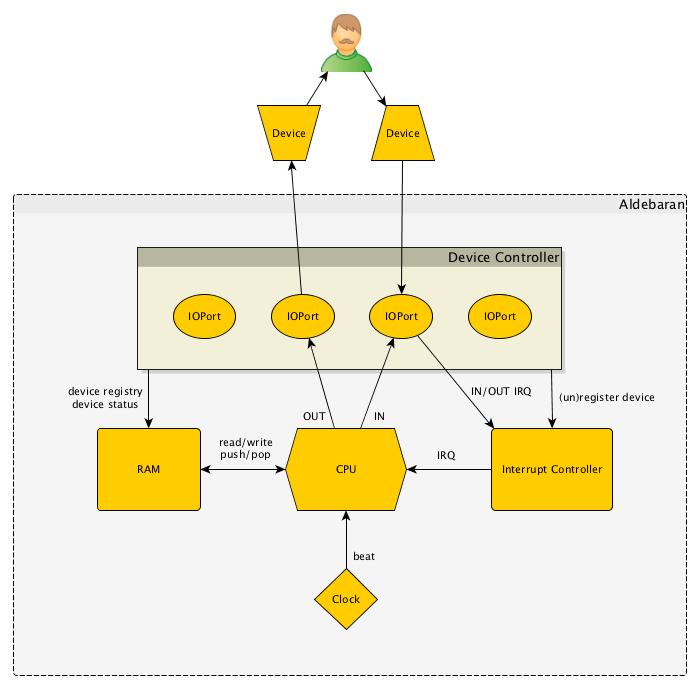
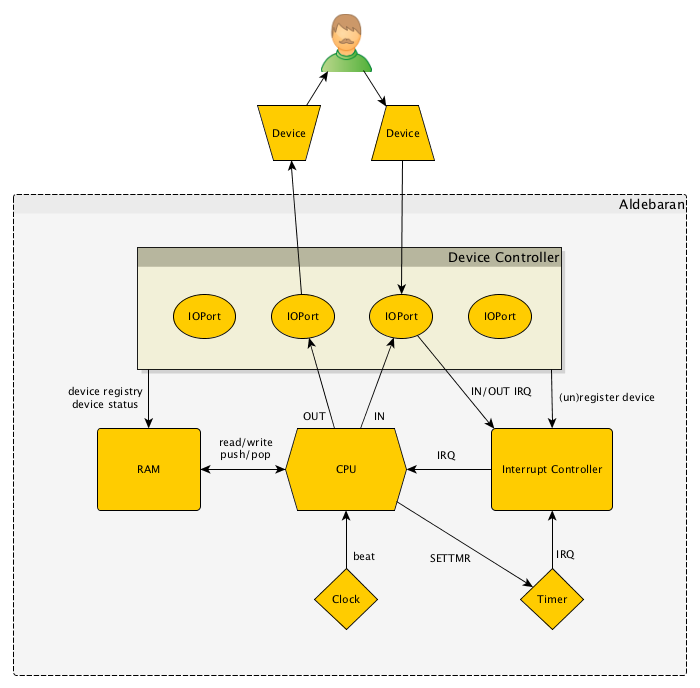
Timer unit added

Changed region(s): [[0.72, 0.7936, 0.84, 0.9157], [0.6, 0.7936, 0.69, 0.8241], [0.78, 0.7326, 0.81, 0.7631]]

diff --git a/aldebaran.py b/aldebaran.py
@@ -11,6 +11,7 @@ import device_controller
 import errors
 import instructions
 import interrupt_controller
+import timer
 
 
 class Aldebaran(aux.Hardware):
@@ -23,10 +24,12 @@ class Aldebaran(aux.Hardware):
         self.bios = components['bios']
         self.interrupt_controller = components['interrupt_controller']
         self.device_controller = components['device_controller']
+        self.timer = components['timer']
         # architecture:
-        self.cpu.register_architecture(self.ram, self.interrupt_controller, self.device_controller)
+        self.cpu.register_architecture(self.ram, self.interrupt_controller, self.device_controller, self.timer)
         self.clock.register_architecture(self.cpu)
-        self.device_controller.register_architecture(self.cpu.system_interrupts, self.interrupt_controller, self.ram)
+        self.device_controller.register_architecture(self.interrupt_controller, self.ram)
+        self.timer.register_architecture(self.interrupt_controller)
 
     def load_bios(self):
         self.log.log('aldebaran', 'Loading BIOS...')
@@ -45,9 +48,13 @@ class Aldebaran(aux.Hardware):
         retval = self.device_controller.start()
         if retval != 0:
             return retval
+        retval = self.timer.start()
+        if retval != 0:
+            return retval
         start_time = time.time()
         retval = self.clock.run()
         stop_time = time.time()
+        self.timer.stop()
         self.device_controller.stop()
         self.log.log('aldebaran', 'Stopped after %s steps in %s sec (%s Hz).' % (
             self.clock.step_count,
@@ -106,6 +113,7 @@ class CPU(aux.Hardware):
         self.user_log = user_log
         self.ram = None
         self.interrupt_controller = None
+        self.timer = None
         self.registers = {
             'IP': self.system_addresses['entry_point'],
             'SP': self.system_addresses['SP'],
@@ -124,10 +132,11 @@ class CPU(aux.Hardware):
         self.halt = False
         self.shutdown = False
 
-    def register_architecture(self, ram, interrupt_controller, device_controller):
+    def register_architecture(self, ram, interrupt_controller, device_controller, timer):
         self.ram = ram
         self.interrupt_controller = interrupt_controller
         self.device_controller = device_controller
+        self.timer = timer
 
     def step(self):
         if not self.ram:
@@ -320,6 +329,7 @@ def main(args):
         'ram': None,
         'interrupt_controller': None,
         'device_controller': None,
+        'timer': None,
     }
     normal_loggers = {
         'aldebaran': aux.Log(),
@@ -329,6 +339,7 @@ def main(args):
         'ram': None,
         'interrupt_controller': aux.Log(),
         'device_controller': aux.Log(),
+        'timer': None,
     }
     full_loggers = {
         'aldebaran': aux.Log(),
@@ -338,6 +349,7 @@ def main(args):
         'ram': aux.Log(),
         'interrupt_controller': aux.Log(),
         'device_controller': aux.Log(),
+        'timer': aux.Log(),
     }
     loggers = normal_loggers  # choose verbosity
     # bios
@@ -367,11 +379,11 @@ def main(args):
         'interrupt_controller': interrupt_controller.InterruptController(loggers['interrupt_controller']),
         'device_controller': device_controller.DeviceController(
             config.aldebaran_host, config.aldebaran_base_port + config.device_controller_port,
-            config.system_addresses['device_status_table'],
-            config.system_addresses['device_registry_address'],
+            config.system_addresses, config.system_interrupts,
             [device_controller.IOPort(ioport_number, loggers['device_controller']) for ioport_number in xrange(config.number_of_ioports)],
             loggers['device_controller'],
         ),
+        'timer': timer.Timer(config.timer_freq, loggers['timer']),
     }, loggers['aldebaran'])
     retval = aldebaran.run()
     print ''

diff --git a/timer.py b/timer.py
@@ -1,0 +1,74 @@
+import datetime
+import threading
+import time
+
+import aux
+
+
+TIMER_MODE_OFF = 0
+TIMER_MODE_ONESHOT = 1
+TIMER_MODE_PERIODIC = 2
+
+
+class Timer(aux.Hardware):
+
+    def __init__(self, freq, log=None):
+        aux.Hardware.__init__(self, log)
+        if freq:
+            self.speed = 1.0 / freq
+        else:
+            self.speed = 0
+        self.start_time = None
+        self.step_count = 0
+        self.stop_event = threading.Event()
+        self.subtimers = [{
+            'mode': TIMER_MODE_OFF,
+            'speed': 1,
+            'phase': 0,
+            'interrupt_number': 0,
+        } for _ in xrange(8)]
+        self.interrupt_controller = None
+
+    def register_architecture(self, interrupt_controller):
+        self.interrupt_controller = interrupt_controller
+
+    def timer_thread_run(self):
+        self.start_time = time.time()
+        while True:
+            self.log.log('timer', 'Beat %s' % datetime.datetime.fromtimestamp(self.start_time).strftime('%H:%M:%S.%f')[:11])
+            for subtimer in self.subtimers:
+                if subtimer['mode'] == TIMER_MODE_OFF:
+                    continue
+                if subtimer['speed'] > 1:
+                    if self.step_count % subtimer['speed'] != subtimer['phase']:
+                        continue
+                self.interrupt_controller.send(subtimer['interrupt_number'])
+                if subtimer['mode'] == TIMER_MODE_ONESHOT:
+                    subtimer['mode'] = TIMER_MODE_OFF
+            self.step_count += 1
+            if self.stop_event.wait(0):
+                break
+            self.sleep()
+
+    def sleep(self):
+        sleep_time = self.start_time + self.speed - time.time()
+        if sleep_time > 0:
+            time.sleep(sleep_time)
+        self.start_time = time.time()
+
+    def start(self):
+        self.log.log('timer', 'Starting...')
+        self.timer_thread = threading.Thread(target=self.timer_thread_run)
+        self.timer_thread.start()
+        self.log.log('timer', 'Started.')
+        return 0
+
+    def stop(self):
+        self.log.log('timer', 'Stopping...')
+        self.stop_event.set()
+        self.timer_thread.join()
+        self.log.log('timer', 'Stopped.')
+
+    def set_subtimer(self, subtimer_number, subtimer_config):
+        self.subtimers[subtimer_number] = subtimer_config
+        self.log.log('timer', 'Subtimer %s set.' % aux.byte_to_str(subtimer_number))

diff --git a/device_controller.py b/device_controller.py
@@ -120,20 +120,19 @@ class DeviceController(aux.Hardware):
             self.log = log
             self.daemon_threads = True
 
-    def __init__(self, host, port, device_status_table, device_registry_address, ioports, log=None):
+    def __init__(self, host, port, system_addresses, system_interrupts, ioports, log=None):
         aux.Hardware.__init__(self, log)
         self.address = (host, port)
-        self.device_status_table = device_status_table
-        self.device_registry_address = device_registry_address
+        self.device_status_table = system_addresses['device_status_table']
+        self.device_registry_address = system_addresses['device_registry_address']
         self.ioports = ioports
-        self.system_interrupts = None
-        self.interrupt_controller = None
+        self.system_interrupts = system_interrupts
         self.output_queue = Queue.Queue()
+        self.interrupt_controller = None
         self.ram = None
         self.architecture_registered = False
 
-    def register_architecture(self, system_interrupts, interrupt_controller, ram):
-        self.system_interrupts = system_interrupts
+    def register_architecture(self, interrupt_controller, ram):
         self.interrupt_controller = interrupt_controller
         self.ram = ram
         for ioport in self.ioports:

diff --git a/config.py b/config.py
@@ -17,10 +17,10 @@ number_of_interrupts = 256
 IVT_size = number_of_interrupts * 2
 device_registry_size = number_of_devices * 4
 system_interrupts = {
-    'device_registered': 30,
-    'device_unregistered': 31,
-    'ioport_in': [32 + ioport_number for ioport_number in xrange(number_of_ioports)],
-    'ioport_out': [48 + ioport_number for ioport_number in xrange(number_of_ioports)],
+    'device_registered': 0x1E,
+    'device_unregistered': 0x1F,
+    'ioport_in': [0x20 + ioport_number for ioport_number in xrange(number_of_ioports)],
+    'ioport_out': [0x30 + ioport_number for ioport_number in xrange(number_of_ioports)],
 }
 system_addresses = {
     'entry_point': 0x0000,
@@ -31,3 +31,4 @@ system_addresses = {
     'IVT': ram_size - IVT_size,
 }
 clock_freq = 200  # Hz
+timer_freq = 10  # Hz

diff --git a/instructions.py b/instructions.py
@@ -577,3 +577,19 @@ class OUT(Instruction):
         ]))
         self.cpu.log.log('cpu', 'Output data to IOPort %s: %s (%s bytes)' % (ioport_number, aux.binary_to_str(output_data), cx))
         self.cpu.set_register('CX', 0)  # is it required?
+
+
+class SETTMR(Instruction):
+    '''Set subtimer of Timer'''
+
+    operand_count = 5
+
+    def do(self):
+        subtimer_number = self.get_operand(0)
+        self.cpu.timer.set_subtimer(subtimer_number, {
+            'mode': self.get_operand(1),
+            'speed': self.get_operand(2),
+            'phase': self.get_operand(3),
+            'interrupt_number': self.get_operand(4),
+        })
+        self.cpu.log.log('cpu', 'Subtimer %s set.' % aux.byte_to_str(subtimer_number))

diff --git a/README.md b/README.md
@@ -15,7 +15,7 @@ The project is under heavy construction...
 
 ### Clock
 
-The clock sends the CPU a beat every `1/clock frequency` seconds. If it takes more time for the CPU to execute the instruction at hand, the clock will wait and send the next beat as soon as possible. So the effective clock frequency (printed after ALD shuts down) is typically smaller then the theoretical. If `clock frequency` is zero ("TURBO" mode), the clock sends beats as fast as possible.
+The clock sends the CPU a beat every `1/clock_freq` seconds. If it takes more time for the CPU to execute the instruction at hand, the clock will wait and send the next beat as soon as possible. So the effective clock frequency (printed after ALD shuts down) is typically smaller then the theoretical. If `clock_freq` is zero ("TURBO" mode), the clock sends beats as fast as possible.
 
 
 ### RAM
@@ -27,7 +27,7 @@ A simple RAM module with 65536 bytes of storage. Capable of reading and writing 
 
 For every clock beat the CPU:
 
-- checks if there's a hardware interrupt (coming from the Interrupt Controller)
+- checks if there's a hardware interrupt coming from the Interrupt Controller (only if the Interrupt Flag is set)
 - if yes, it calls the specified interrupt handler routine (based on the Interrupt Vector Table)
 - if no, it executes the instruction at the Instruction Pointer (`IP`) and sets the `IP` to the next instruction
 
@@ -94,6 +94,18 @@ Another part of the RAM is the Device Status Table. For each IOPort it has 1 byt
 5. CPU calls the specified interrupt handler routine
 6. Device Controller responds to the device
 
+
+### Timer
+
+Timer is an internal device (i.e. it's not controlled by the Device Controller but directly by the CPU). It runs on a preset frequency (`timer_freq`) independently from the clock and increases a step counter (`step_count`) at every beat. It has 8 subtimers the can be programmed separately with the `SETTMR` instruction.
+
+A subtimer can be in 3 modes:
+
+- `OFF` (`00`): the subtimer does nothing
+- `ONESHOT` (`01`): the subtimer waits until `step_count mod speed = phase`, then it calls a specified interrupt and switches to `OFF` mode
+- `PERIODIC` (`02`): the subtimer waits until `step_count mod speed = phase`, then it calls a specified interrupt and waits again
+
+If `speed` is zero, a `ONESHOT` subtimer calls the interrupt at the next beat of the Timer, a `PERIODIC` calls at every beat. In this case `phase` has no meaning. Otherwise `phase` should be between `0` and `speed-1`.
 
 
 ## Programming
